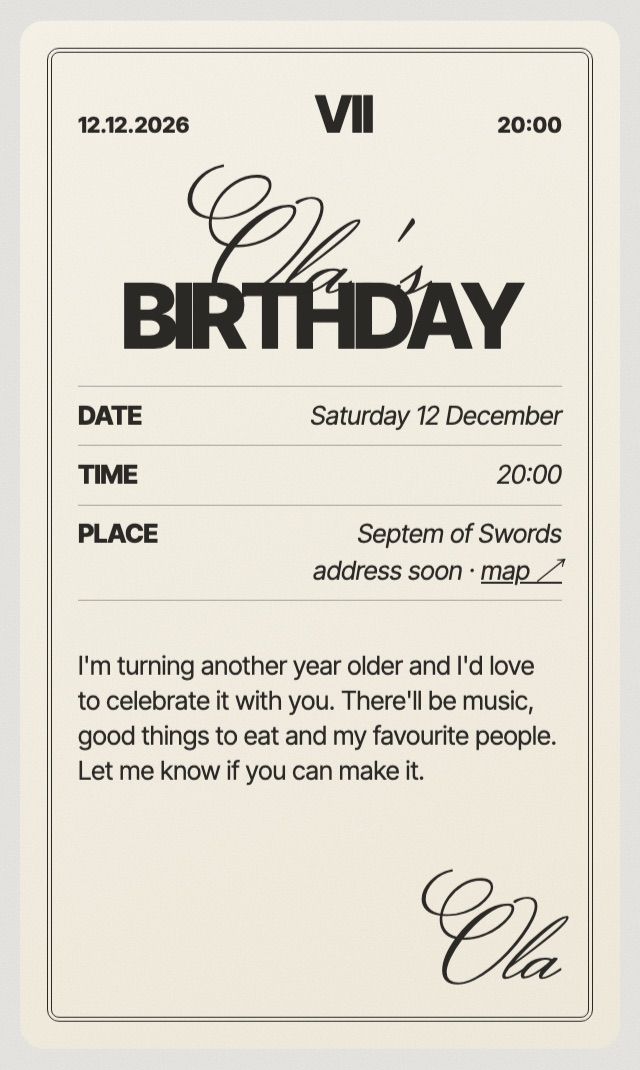
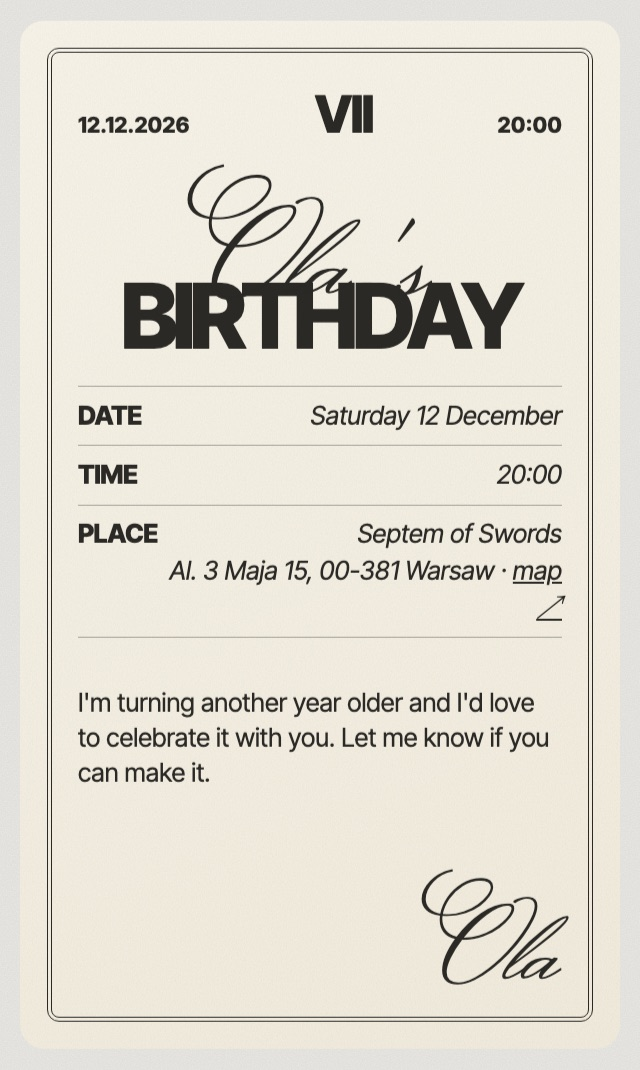
Email confirmation for every reply, privacy note, +1 wording, seven-swords art, venue address

Changed region(s): [[0.125, 0.6168, 0.875, 0.7402], [0.25, 0.5243, 0.875, 0.586]]

diff --git a/supabase/functions/rsvp/index.ts b/supabase/functions/rsvp/index.ts
@@ -1,5 +1,6 @@
 // rsvp: saves a guest's reply and, for a "yes" with an email, sends them the
-// opened invite (card images + details + .ics). The email content comes only
+// opened invite (card images + details + .ics); a "no" gets a short
+// confirmation. The email content comes only
 // from the host's own site (event.json), never from the request, so this
 // can't be used to send arbitrary mail.
 //
@@ -52,7 +53,7 @@ Deno.serve(async (req) => {
   else return json({ error: "attending" }, 400);
   if (answers.attending === "yes" && (a.plus_one === "yes" || a.plus_one === "no")) answers.plus_one = a.plus_one;
   const email = String(a.email ?? "").trim().toLowerCase().slice(0, 200);
-  if (answers.attending === "yes" && email) {
+  if (email) {
     if (!EMAIL_RE.test(email)) return json({ error: "email" }, 400);
     answers.email = email;
   }
@@ -72,7 +73,7 @@ Deno.serve(async (req) => {
   // email the opened invite
   let emailed = false;
   const resendKey = Deno.env.get("RESEND_API_KEY");
-  if (answers.attending === "yes" && answers.email && resendKey) {
+  if (answers.email && resendKey) {
     try {
       // at most 2 emails to the same address per 10 minutes
       const tenAgo = new Date(Date.now() - 600e3).toISOString();
@@ -80,7 +81,9 @@ Deno.serve(async (req) => {
         .eq("event_id", ev.id).eq("answers->>email", answers.email).gte("created_at", tenAgo);
       if ((recent ?? 0) <= 2) {
         const content: EventContent = await (await fetch(`${cfg.site}/event.json`, { cache: "no-store" })).json();
-        const mail = buildEmail(content, cfg.site, lang, name, answers.plus_one === "yes");
+        const mail = answers.attending === "yes"
+          ? buildEmail(content, cfg.site, lang, name, answers.plus_one === "yes")
+          : buildDeclineEmail(content, cfg.site, lang, name);
         const res = await fetch("https://api.resend.com/emails", {
           method: "POST",
           headers: { Authorization: `Bearer ${resendKey}`, "Content-Type": "application/json" },
@@ -91,7 +94,7 @@ Deno.serve(async (req) => {
             subject: mail.subject,
             html: mail.html,
             text: mail.text,
-            attachments: [{ filename: "septem-of-swords.ics", content: encodeBase64(new TextEncoder().encode(mail.ics)) }],
+            attachments: mail.ics ? [{ filename: "septem-of-swords.ics", content: encodeBase64(new TextEncoder().encode(mail.ics)) }] : undefined,
           }),
         });
         if (res.ok) emailed = true;
@@ -155,5 +158,30 @@ function buildEmail(c: EventContent, site: string, lang: "pl" | "en", name: stri
     `SUMMARY:${icsEsc(c.title[lang])}`, `LOCATION:${icsEsc(`${c.place}, ${address}`)}`, `URL:${site}/?open=1`,
     `DESCRIPTION:${icsEsc(note)}`, "END:VEVENT", "END:VCALENDAR"].join("\r\n");
   return { subject: T.subject, html, text, ics };
+}
+function buildDeclineEmail(c: EventContent, site: string, lang: "pl" | "en", name: string) {
+  const T = lang === "pl"
+    ? { subject: `Dziękuję za odpowiedź · ${c.title.pl}`, hi: `Cześć ${name},`, head: "Będę tęsknić",
+        body: "Dostałam Twoją odpowiedź: tym razem nie dasz rady. Dziękuję, że dałeś/aś znać!",
+        change: "Jeśli plany się zmienią, otwórz zaproszenie i odpowiedz jeszcze raz albo po prostu odpisz na tego maila.", open: "Otwórz zaproszenie" }
+    : { subject: `Thanks for letting me know · ${c.title.en}`, hi: `Hi ${name},`, head: "You'll be missed",
+        body: "Got your reply: you can't make it this time. Thank you for letting me know!",
+        change: "If plans change, open the invite and reply again, or just reply to this email.", open: "Open the invitation" };
+  const ink = "#2a2926", paper = "#e9e8e4", font = "'Inter Tight','Helvetica Neue',Helvetica,Arial,sans-serif";
+  const link = `${site}/?open=1&lang=${lang}`;
+  const html = `<!doctype html><html><body style="margin:0;background:${paper}">
+<table role="presentation" width="100%" cellpadding="0" cellspacing="0" style="background:${paper}"><tr><td align="center" style="padding:28px 14px">
+<table role="presentation" width="100%" cellpadding="0" cellspacing="0" style="max-width:480px">
+  <tr><td style="font:600 11px ${font};text-transform:uppercase;color:${ink}">cotoaleksandra</td>
+      <td align="right" style="font:600 11px ${font};text-transform:uppercase;color:${ink}">${esc(dd(c.date))}</td></tr>
+  <tr><td colspan="2" align="center" style="padding:34px 0 6px;font:italic 17px Georgia,serif;color:${ink}">${esc(T.hi)}</td></tr>
+  <tr><td colspan="2" align="center" style="font:800 34px/1 ${font};letter-spacing:-2px;text-transform:uppercase;color:${ink}">${esc(T.head)}</td></tr>
+  <tr><td colspan="2" align="center" style="padding:18px 0 0;font:15px/1.5 ${font};color:${ink}">${esc(T.body)}</td></tr>
+  <tr><td colspan="2" align="center" style="padding:10px 0 0;font:13px/1.5 ${font};color:#6a6863">${esc(T.change)}</td></tr>
+  <tr><td colspan="2" align="center" style="padding:26px 0 0"><a href="${link}" style="display:inline-block;border:1px solid ${ink};border-radius:999px;color:${ink};text-decoration:none;padding:10px 22px;font:600 12px ${font};text-transform:uppercase">( ${esc(T.open)} )</a></td></tr>
+  <tr><td colspan="2" align="right" style="padding:26px 0 0;font:italic 30px Georgia,serif;color:${ink}">${esc(c.host)}</td></tr>
+</table></td></tr></table></body></html>`;
+  const text = `${T.hi}\n\n${T.head}. ${T.body}\n\n${T.change}\n${link}\n\n${c.host}`;
+  return { subject: T.subject, html, text, ics: "" };
 }
 function dd(iso: string) { const [y, m, d] = iso.split("-"); return `${d}.${m}.${y}`; }

diff --git a/halftone.js b/halftone.js
@@ -50,55 +50,32 @@ window.Halftone = (() => {
     ctx.restore();
   }
 
-  // Stand-in until Ola's photo exists: a figure slipping away with an armful
-  // of swords, glancing back (the Seven of Swords pose), drawn in greys.
+  // Stand-in until Ola's photo exists: seven swords standing in a row,
+  // points down, under a soft moon. No figure.
   function standIn() {
     const c = document.createElement("canvas");
     c.width = 360; c.height = 480;
     const g = c.getContext("2d");
-    const bg = g.createRadialGradient(170, 170, 40, 180, 240, 330);
-    bg.addColorStop(0, "#ffffff"); bg.addColorStop(1, "#e6e6e6");
-    g.fillStyle = bg; g.fillRect(0, 0, 360, 480);
-    // ground
-    const gr = g.createLinearGradient(0, 380, 0, 480);
-    gr.addColorStop(0, "rgba(0,0,0,0)"); gr.addColorStop(1, "rgba(0,0,0,.45)");
-    g.fillStyle = gr; g.fillRect(0, 370, 360, 110);
-
-    const sword = (x, y, len, ang, w = 6, tone = "#3a3a3a") => {
-      g.save(); g.translate(x, y); g.rotate(ang);
-      g.fillStyle = tone;
-      g.beginPath(); g.moveTo(-w / 2, 0); g.lineTo(w / 2, 0); g.lineTo(w / 2, -len); g.lineTo(0, -len - 14); g.lineTo(-w / 2, -len); g.closePath(); g.fill();
+    g.fillStyle = "#fff"; g.fillRect(0, 0, 360, 480);
+    const moon = g.createRadialGradient(180, 190, 10, 180, 190, 160);
+    moon.addColorStop(0, "rgba(0,0,0,.4)"); moon.addColorStop(.55, "rgba(0,0,0,.15)"); moon.addColorStop(1, "rgba(0,0,0,0)");
+    g.fillStyle = moon; g.beginPath(); g.arc(180, 190, 160, 0, 7); g.fill();
+    const sword = (x, top, len, tone) => {
+      const bl = g.createLinearGradient(x - 10, 0, x + 10, 0);
+      bl.addColorStop(0, tone); bl.addColorStop(.5, "#a8a8a8"); bl.addColorStop(1, tone);
+      g.fillStyle = bl;
+      g.beginPath(); g.moveTo(x - 9, top + 54); g.lineTo(x + 9, top + 54); g.lineTo(x + 7, top + 54 + len); g.lineTo(x, top + 78 + len); g.lineTo(x - 7, top + 54 + len); g.closePath(); g.fill();
       g.fillStyle = "#111";
-      g.fillRect(-18, -4, 36, 8);            // guard
-      g.fillRect(-3, 0, 6, 28);              // grip
-      g.beginPath(); g.arc(0, 32, 6, 0, 7); g.fill(); // pommel
-      g.restore();
+      g.fillRect(x - 24, top + 44, 48, 11);                  // cross-guard
+      g.fillRect(x - 5, top + 12, 10, 32);                   // grip
+      g.beginPath(); g.arc(x, top + 9, 10, 0, 7); g.fill(); // pommel
     };
-    // two swords left behind, planted in the ground
-    sword(300, 400, 150, 0.06, 6, "#555");
-    sword(328, 408, 130, -0.04, 6, "#666");
-
-    // body
-    const body = g.createLinearGradient(110, 140, 220, 360);
-    body.addColorStop(0, "#1e1e1e"); body.addColorStop(1, "#6a6a6a");
-    g.fillStyle = body;
-    g.beginPath(); // coat
-    g.moveTo(140, 150); g.quadraticCurveTo(205, 150, 210, 230); g.lineTo(225, 330); g.quadraticCurveTo(170, 345, 120, 325);
-    g.lineTo(125, 230); g.quadraticCurveTo(110, 170, 140, 150); g.fill();
-    // legs, tiptoeing to the right
-    g.strokeStyle = "#2a2a2a"; g.lineCap = "round"; g.lineWidth = 22;
-    g.beginPath(); g.moveTo(155, 320); g.lineTo(125, 395); g.lineTo(108, 412); g.stroke();
-    g.beginPath(); g.moveTo(190, 320); g.lineTo(232, 388); g.lineTo(258, 392); g.stroke();
-    // head, turned back over the shoulder
-    const hd = g.createRadialGradient(150, 100, 6, 158, 112, 40);
-    hd.addColorStop(0, "#9a9a9a"); hd.addColorStop(1, "#262626");
-    g.fillStyle = hd; g.beginPath(); g.ellipse(160, 112, 33, 38, -0.2, 0, 7); g.fill();
-    g.fillStyle = "#151515"; g.beginPath(); g.ellipse(170, 96, 36, 26, 0.3, Math.PI, 2 * Math.PI); g.fill(); // hair
-    // armful of five swords, carried diagonally
-    for (let i = 0; i < 5; i++) sword(110 + i * 9, 250 - i * 4, 170, 1.05 + i * 0.05, 6, i % 2 ? "#4a4a4a" : "#2e2e2e");
-    // arm wrapped around them
-    g.strokeStyle = "#1c1c1c"; g.lineWidth = 20;
-    g.beginPath(); g.moveTo(195, 175); g.quadraticCurveTo(215, 235, 165, 250); g.stroke();
+    for (let i = 0; i < 7; i++) {
+      const t = (i - 3) / 3;                                  // -1 … 1
+      sword(54 + i * 42, 60 + t * t * 44, 250 - t * t * 30, i % 2 ? "#2a2a2a" : "#444");
+    }
+    g.fillStyle = "#222";
+    [[40, 40, 3], [322, 52, 2.5], [300, 440, 2], [52, 450, 2]].forEach(([x, y, r]) => { g.beginPath(); g.arc(x, y, r, 0, 7); g.fill(); });
     return c;
   }
 

diff --git a/invite.js b/invite.js
@@ -21,7 +21,7 @@
       thanks: "Dziękuję", seeYou: "Do zobaczenia", missYou: "Będę tęsknić",
       yesLine: (p) => (p ? "będziesz z osobą towarzyszącą." : "będziesz."),
       noLine: "szkoda, że Cię nie będzie.",
-      change: "zmień odpowiedź", badEmail: "Sprawdź adres email.", emailed: (e) => `Zaproszenie wysłane na ${e}.`, photoSoon: "( zdjęcie wkrótce )", footer: "zaproszenie",
+      change: "zmień odpowiedź", badEmail: "Sprawdź adres email.", emailed: (e) => `Potwierdzenie wysłane na ${e}.`, photoSoon: "( zdjęcie wkrótce )", footer: "zaproszenie",
     },
     en: {
       tapSeal: "( tap the seal )", tapCard: "( tap the card to turn it over )", toRsvp: "( reply ↓ )",
@@ -31,7 +31,7 @@
       thanks: "Thank you", seeYou: "See you there", missYou: "You'll be missed",
       yesLine: (p) => (p ? "you're coming with a +1." : "you're coming."),
       noLine: "sorry you can't make it.",
-      change: "change my reply", badEmail: "Please check the email address.", emailed: (e) => `Invite sent to ${e}.`, photoSoon: "( photo coming soon )", footer: "an invitation",
+      change: "change my reply", badEmail: "Please check the email address.", emailed: (e) => `Confirmation sent to ${e}.`, photoSoon: "( photo coming soon )", footer: "an invitation",
     },
   };
   const t = (k, ...a) => { const v = T[lang][k]; return typeof v === "function" ? v(...a) : v; };
@@ -140,7 +140,7 @@
         return `<div class="f"><label for="${id}">${esc(L(f.label))}</label><textarea id="${id}" name="${f.id}" maxlength="${f.max || 1000}" rows="4">${esc(v)}</textarea></div>`;
       }
       if (f.type === "email") {
-        return `<div class="f"><label for="${id}">${esc(L(f.label))}</label><input type="text" inputmode="email" autocomplete="email" spellcheck="false" id="${id}" name="${f.id}" maxlength="${f.max || 200}" value="${esc(v)}"></div>`;
+        return `<div class="f"><label for="${id}">${esc(L(f.label))}</label><input type="text" inputmode="email" autocomplete="email" spellcheck="false" id="${id}" name="${f.id}" maxlength="${f.max || 200}" value="${esc(v)}" ${f.hint ? `aria-describedby="${id}-hint"` : ""}>${f.hint ? `<p class="hint-small" id="${id}-hint">${esc(L(f.hint))}</p>` : ""}</div>`;
       }
       return `<div class="f"><label for="${id}">${esc(L(f.label))}</label><input type="text" id="${id}" name="${f.id}" maxlength="${f.max || 200}" value="${esc(v)}" ${f.id === "name" ? 'autocomplete="name"' : ""}></div>`;
     }).join("");

diff --git a/config.js b/config.js
@@ -28,10 +28,12 @@ window.INVITE = {
       label: { pl: "Będziesz?", en: "Will you come?" },
       options: [{ v: "yes", pl: "Tak", en: "Yes" }, { v: "no", pl: "Nie", en: "No" }] },
     { id: "plus_one", type: "choice", showIf: { attending: "yes" },
-      label: { pl: "Z osobą towarzyszącą?", en: "Bringing a +1?" },
+      label: { pl: "Czy przyjdziesz z osobą towarzyszącą (+1)?", en: "Are you bringing a +1?" },
       options: [{ v: "yes", pl: "Tak", en: "Yes" }, { v: "no", pl: "Nie", en: "No" }] },
-    { id: "email", type: "email", required: true, showIf: { attending: "yes" }, max: 200,
-      label: { pl: "Email: wyślę Ci zaproszenie ze wszystkimi informacjami", en: "Email: I'll send you the invite with all the details" } },
+    { id: "email", type: "email", required: true, max: 200,
+      label: { pl: "Twój email", en: "Your email" },
+      hint: { pl: "Dostaniesz potwierdzenie i wszystkie informacje o imprezie. Email służy tylko do tego, nic więcej.",
+              en: "You'll get a confirmation with all the party details. Your email is only used for this, nothing else." } },
     { id: "message", type: "textarea", max: 1000,
       label: { pl: "Wiadomość lub pytanie (opcjonalnie)", en: "Message or question (optional)" } },
   ],

diff --git a/invite.css b/invite.css
@@ -220,3 +220,4 @@ body.opened .furn--bottom { position: static; }
 .og-text p { margin-top: 30px; font-size: 22px; font-weight: 600; text-transform: uppercase; letter-spacing: -.01em; }
 .og-furn { position: fixed; left: 80px; right: 80px; display: flex; justify-content: space-between; font-size: 18px; font-weight: 600; text-transform: uppercase; }
 .og-furn.top { top: 36px; } .og-furn.bottom { bottom: 36px; font-weight: 500; }
+.hint-small { margin-top: 8px; font-size: 12px; line-height: 1.4; color: var(--mute); }
